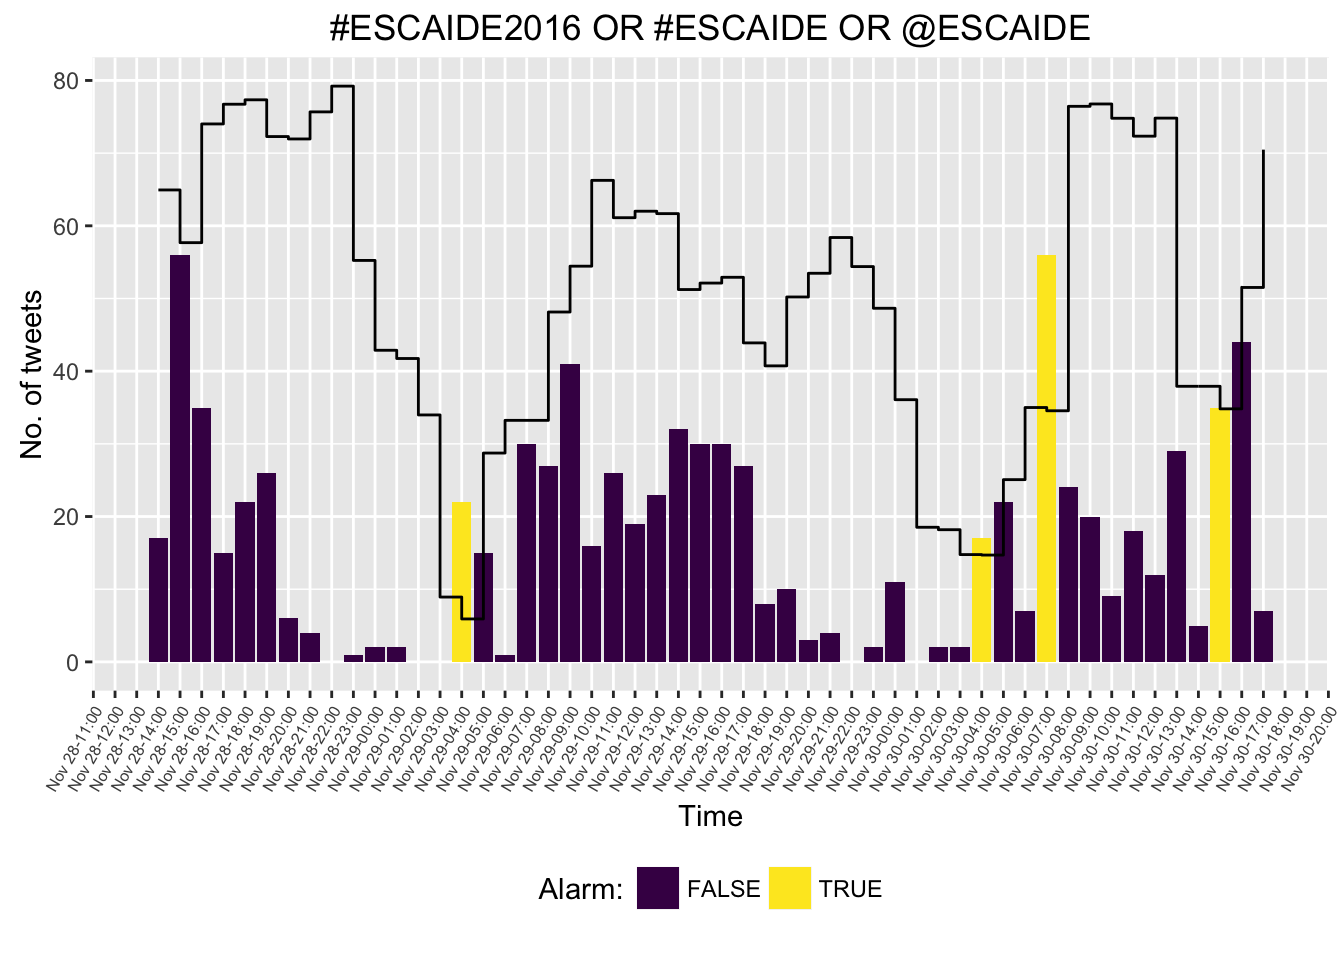
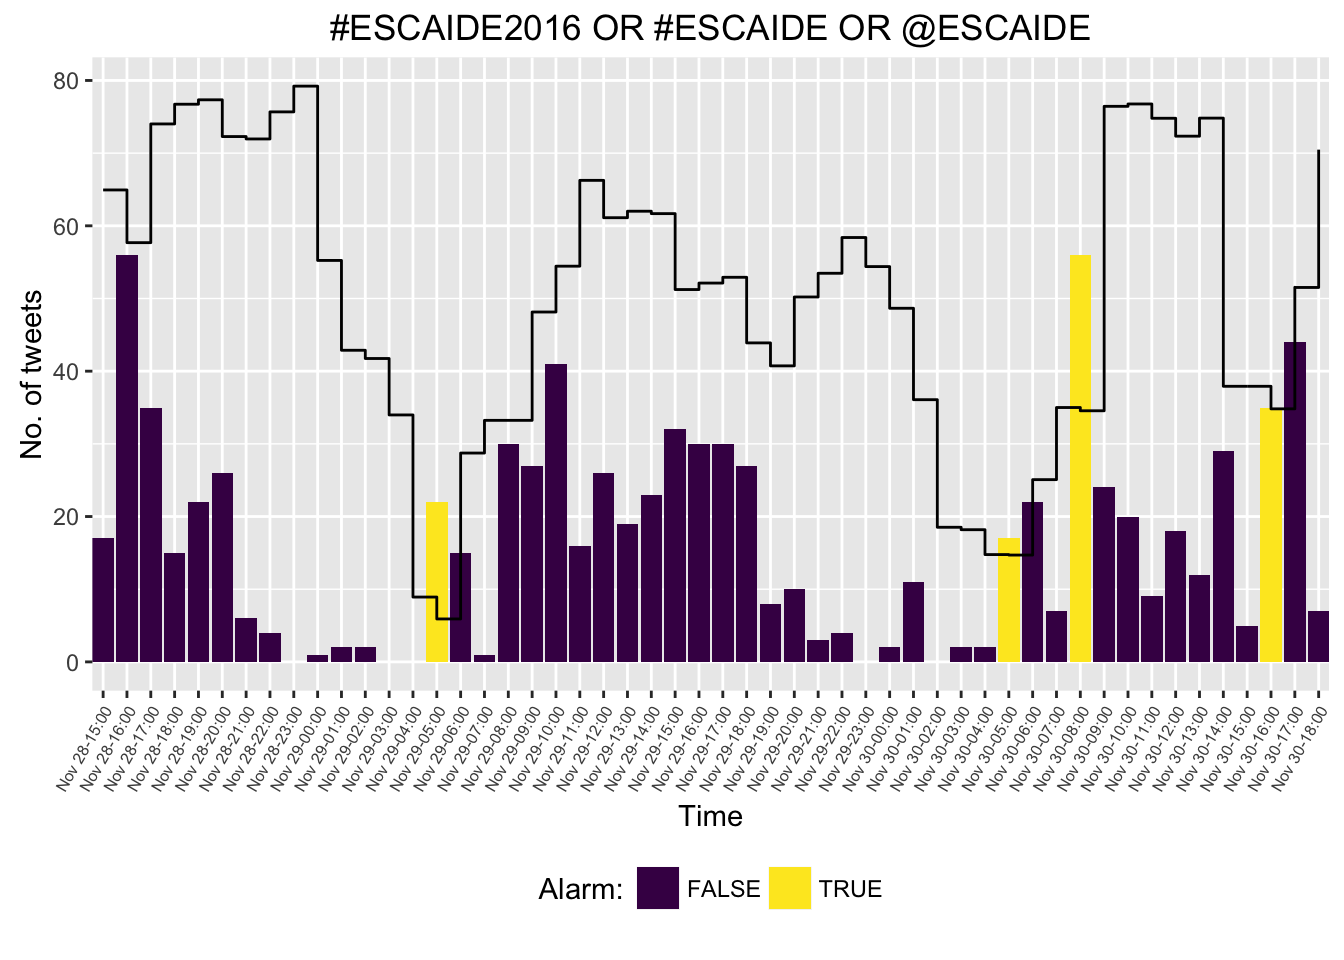
fixed bug in ears figure, which was not regenerated due to typo

Changed region(s): [[0.0312, 0.0625, 1.0, 0.8438]]

diff --git a/docs/articles/twitter.html b/docs/articles/twitter.html
@@ -187,7 +187,8 @@ monitored_tweets_df &lt;-<span class="st"> </span><span class="kw">mutate</span>
 <span class="st">  </span><span class="kw">theme</span>(<span class="dt">axis.text.x=</span><span class="kw">element_text</span>(<span class="dt">angle=</span><span class="dv">90</span>, <span class="dt">hjust=</span><span class="dv">1</span>)) +
 <span class="st">  </span><span class="kw">ylab</span>(<span class="st">"No. of tweets"</span>) +
 <span class="st">  </span><span class="kw">xlab</span>(<span class="st">"Time"</span>) +<span class="st"> </span><span class="kw">ggtitle</span>(the_query) +
-<span class="st">  </span><span class="kw">scale_x_datetime</span>(<span class="dt">date_minor_breaks=</span><span class="st">"1 hour"</span>,<span class="dt">date_breaks=</span><span class="st">"1 hour"</span>,<span class="dt">date_labels=</span><span class="st">"Nov %d-%H:00"</span>) +
+<span class="st">  </span>##  scale_x_datetime(date_minor_breaks="1 hour",date_breaks="1 hour",date_labels="Nov %d-%H:00") +
+<span class="st">  </span><span class="kw">scale_x_datetime</span>(<span class="dt">date_minor_breaks=</span><span class="st">"1 hour"</span>,<span class="dt">date_breaks=</span><span class="st">"1 hour"</span>,<span class="dt">labels=</span>scales::<span class="kw">date_format</span>(<span class="st">"Nov %d-%H:00"</span>, <span class="dt">tz =</span> <span class="st">"CET"</span>),<span class="dt">expand=</span><span class="kw">c</span>(<span class="dv">0</span>,<span class="dv">0</span>)) +
 <span class="st">  </span><span class="kw">theme</span>(<span class="dt">axis.text.x =</span> <span class="kw">element_text</span>(<span class="dt">angle =</span> <span class="dv">60</span>, <span class="dt">size =</span> <span class="dv">6</span>))</code></pre></div>
 <p><img src="twitter_files/figure-html/ears-1.png" width="672" style="display: block; margin: auto;"></p>
 <div id="instant-citizen-science-experiment" class="section level3">
